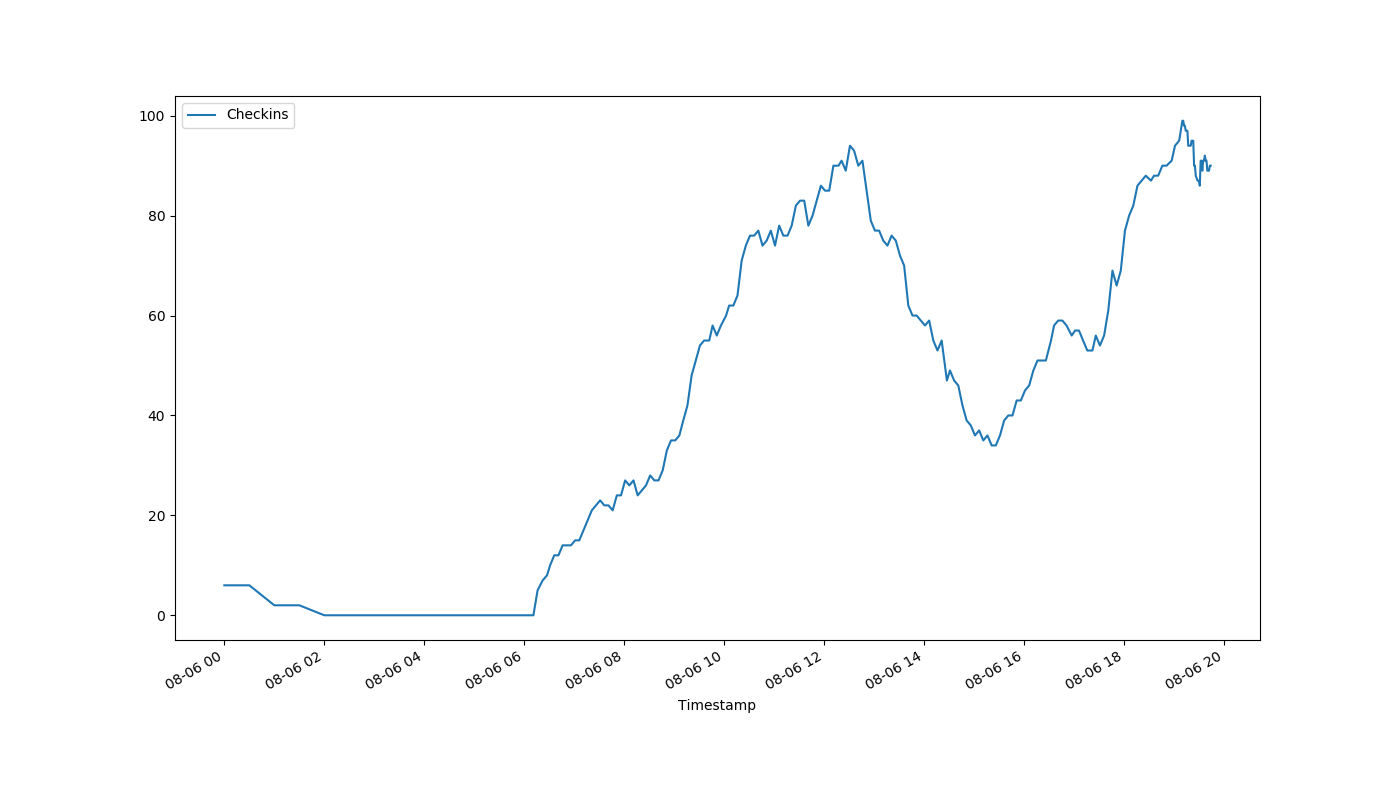
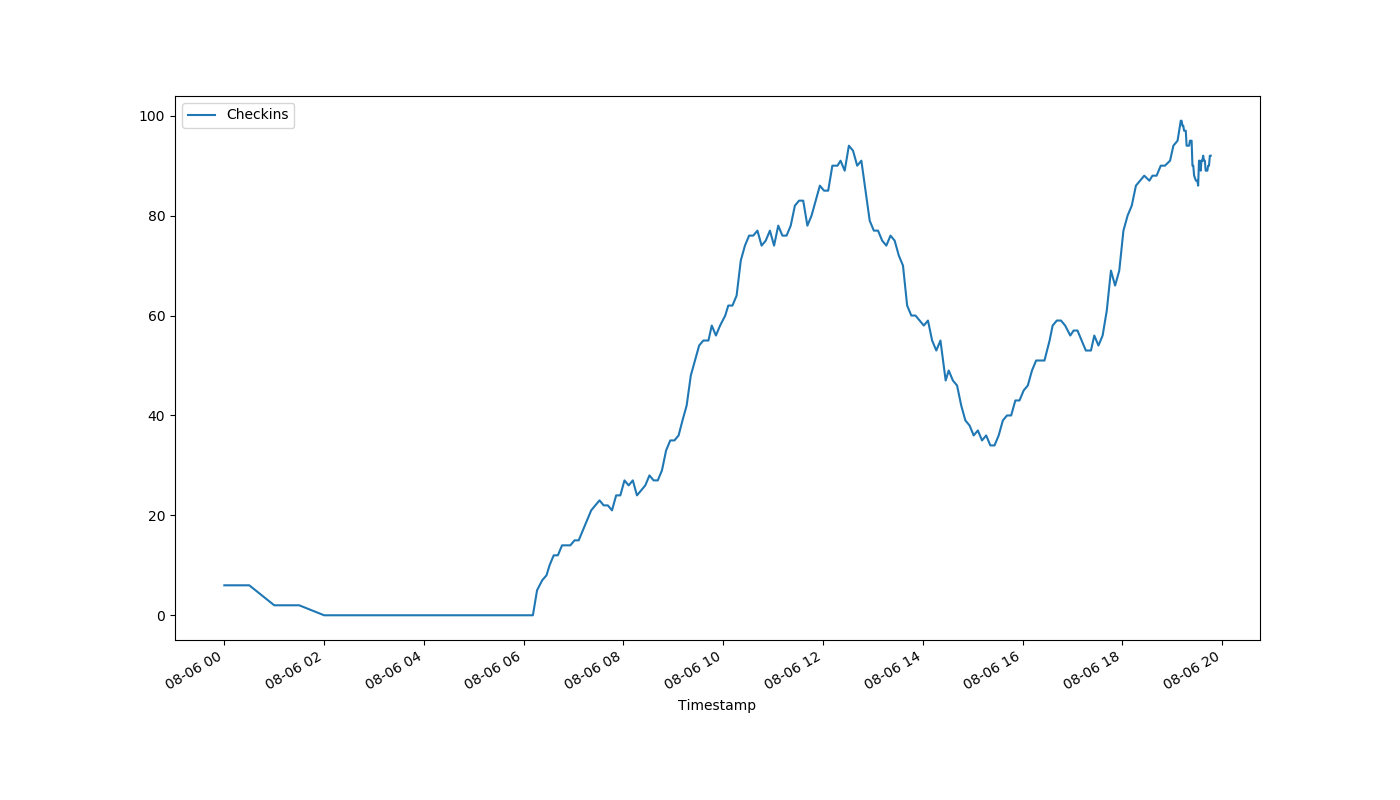
auto-Aug-06-19:47:18

diff --git a/index.html b/index.html
@@ -1,1 +1,1 @@
-<!DOCTYPE html><html><head><meta http-equiv="refresh" content="15"><link rel='stylesheet' href='holmcurrent.css'></head><body><p id='count'>90</p><div id='graph-wrap'><img id='graph' src='holmgraph-Aug-06.png'></div><p id='updated'>Last updated 19:45:09 / 19:44:09</p></body></html>
+<!DOCTYPE html><html><head><meta http-equiv="refresh" content="15"><link rel='stylesheet' href='holmcurrent.css'></head><body><p id='count'>92</p><div id='graph-wrap'><img id='graph' src='holmgraph-Aug-06.png'></div><p id='updated'>Last updated 19:47:09 / 19:46:09</p></body></html>
